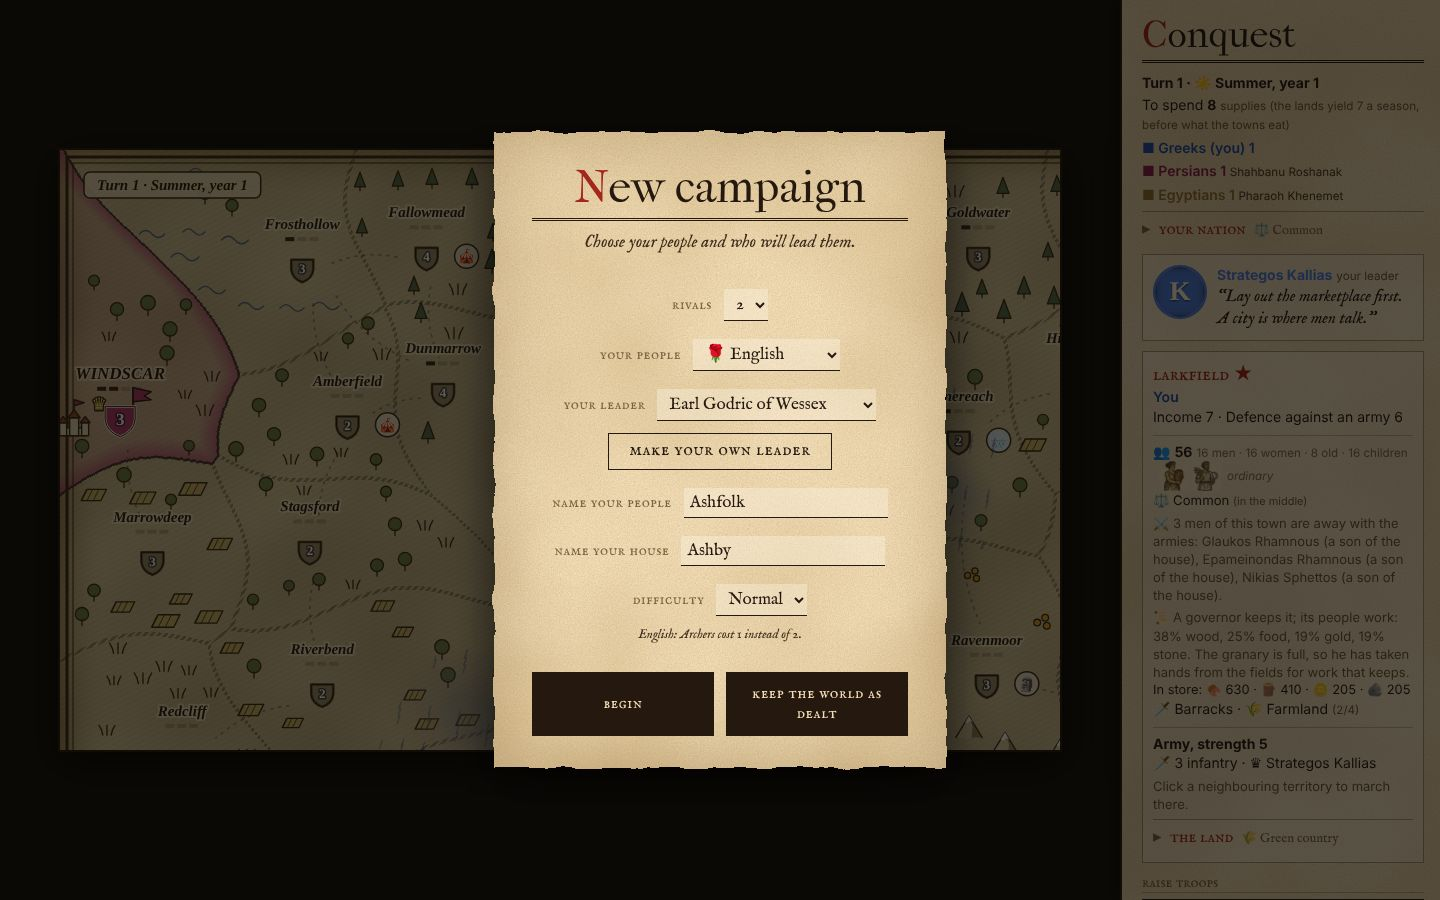
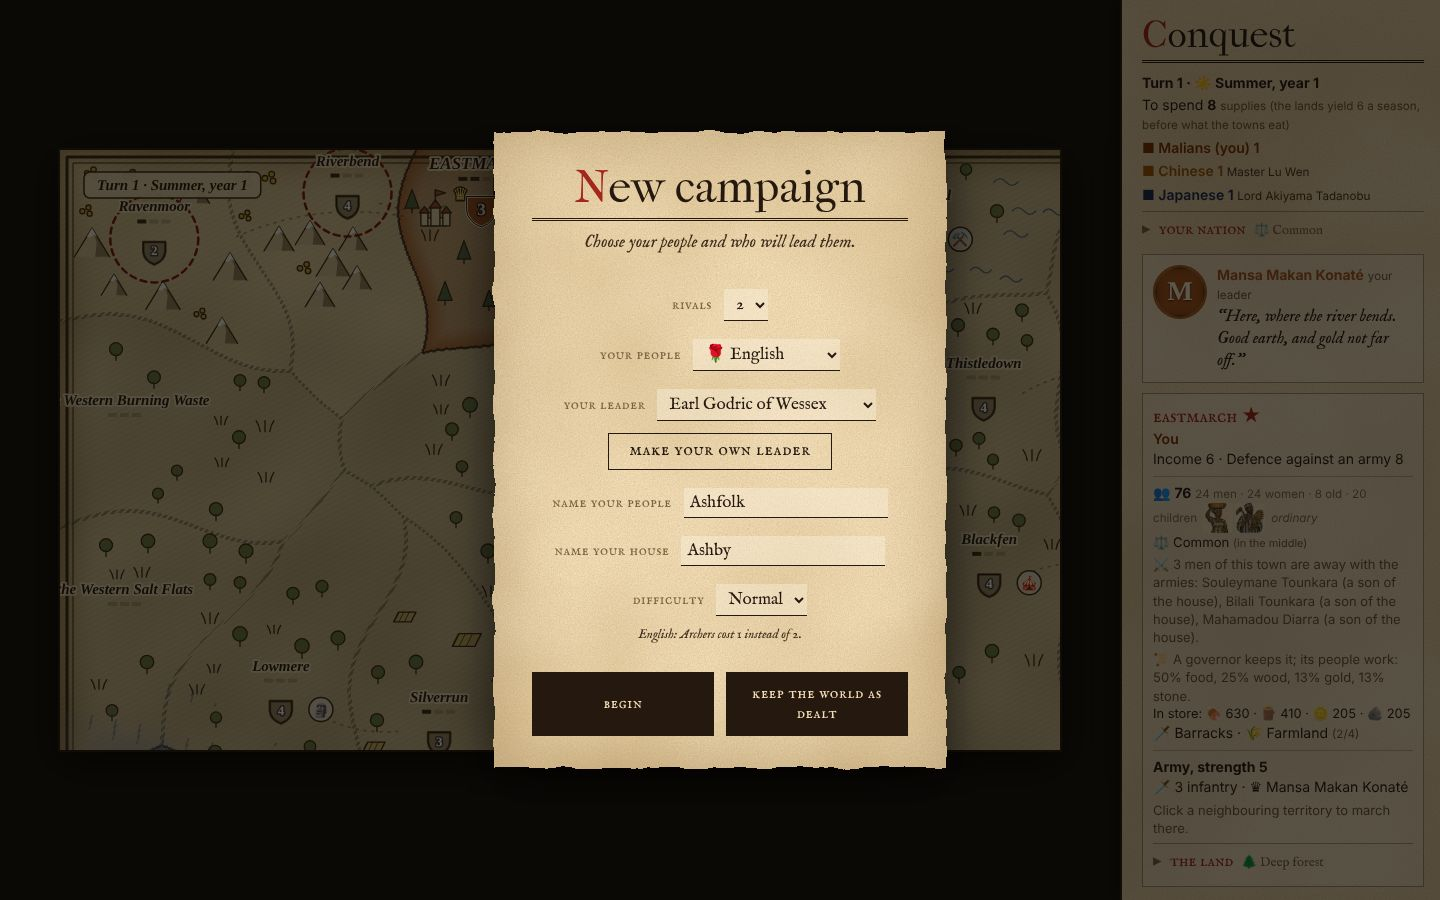
Playthrough of 21 November: the defence figure given whole, the visit guide off the lessons, more shots (in progress)
The land panel gave "Defence against an army 7.3" where everything else gives the town's strength whole; it is
rounded now. In a visit the guide sat exactly over the lessons (both at the top left), hiding the first lines of the
hunger lesson; it stands on the right now, under the visit's own box.

Claude-Session: https://claude.ai/code/session_01BwJQLsc8hrP7MZYqz8xcWq

diff --git a/src/client/landpanel.ts b/src/client/landpanel.ts
@@ -112,7 +112,7 @@ export function landHtml(c: Campaign, sel: number, canMarch: boolean): string {
   const signs = [...(weather ? [`<span title="${WEATHER[weather as 'rain'].name}">${WEATHER[weather as 'rain'].icon}</span>`] : []), ...events.map((e) => `<span title="${EVENTS[e.kind].name}">${EVENTS[e.kind].icon}</span>`)].join('');
   const head = `<h3>${t.name}${t.capital >= 0 ? ' ★' : ''}${signs ? ` <small class="lp-signs">${signs}</small>` : ''}</h3>
       <div style="color:${css(owner.color)}">${owner.name}</div>
-      ${empty ? '' : `<div>Income ${territoryIncome(t, t.owner >= 0 ? c.factions[t.owner].civ : '') + countryYield(c, t.id) + (t.owner >= 0 && t.buildings.includes('tavern') ? faithOf(c, t.owner).tavern : 0)} · <span title="What an army marching on this town would meet. Against a band the town musters differently: see below.">Defence against an army ${defence(c, t.id)}</span></div>`}${empty ? `<div class="hint">${empty.desc}${settleReach(c, 0, t.id) ? ` ${settleReach(c, 0, t.id)}` : ''}</div>` : ''}`;
+      ${empty ? '' : `<div>Income ${territoryIncome(t, t.owner >= 0 ? c.factions[t.owner].civ : '') + countryYield(c, t.id) + (t.owner >= 0 && t.buildings.includes('tavern') ? faithOf(c, t.owner).tavern : 0)} · <span title="What an army marching on this town would meet. Against a band the town musters differently: see below.">Defence against an army ${Math.round(defence(c, t.id))}</span></div>`}${empty ? `<div class="hint">${empty.desc}${settleReach(c, 0, t.id) ? ` ${settleReach(c, 0, t.id)}` : ''}</div>` : ''}`;
   const people = `${t.horde && t.owner < 0 ? '' : townHtml(c, t.id, t.owner === 0)}
       <div>${t.buildings.map((b) => { const l = siteLook(b, SITES[b], c.factions[t.owner]?.civ); return `${l.icon} ${l.name}`; }).join(' · ') || 'No buildings'} <small>(${t.buildings.length}/${slots(t)})</small></div>`;
   const emptying = t.owner === 0 ? emptyingTowns(c, 0).filter((x) => x.at === t.id).map((x) => `<div class="bad">🌾 ${emptyingText(x)}</div>`).join('') : ''; // its granary emptying soon (larderwatch.ts)

diff --git a/src/client/style.css b/src/client/style.css
@@ -919,7 +919,7 @@ body.looking-out #visit { display: none; }
 #info .hall-case button { margin: 2px 3px 0 0; }
 
 /* The visit's own guide (src/sim/visitguide.ts, src/client/visit.ts) */
-#visit-guide { pointer-events: auto; position: absolute; top: 50px; left: 12px; width: 270px; padding: 8px 12px; background: var(--paper); border: 1px solid var(--ink); box-shadow: var(--slip); }
+#visit-guide { pointer-events: auto; position: absolute; top: 172px; right: 12px; width: 270px; /* on the right, under the visit's own box: the lessons keep the top left (playthrough of 21 November) */ padding: 8px 12px; background: var(--paper); border: 1px solid var(--ink); box-shadow: var(--slip); }
 #visit-guide h4 { margin: 0 0 6px; padding-bottom: 3px; border-bottom: 1px solid var(--ink); font: 400 19px/1.15 var(--caps); text-transform: lowercase; color: var(--gold); display: flex; justify-content: space-between; }
 #visit-guide h4 button { border: 0; background: none; color: var(--muted); padding: 0 2px; }
 #visit-guide .done { color: var(--muted); text-decoration: line-through; }
